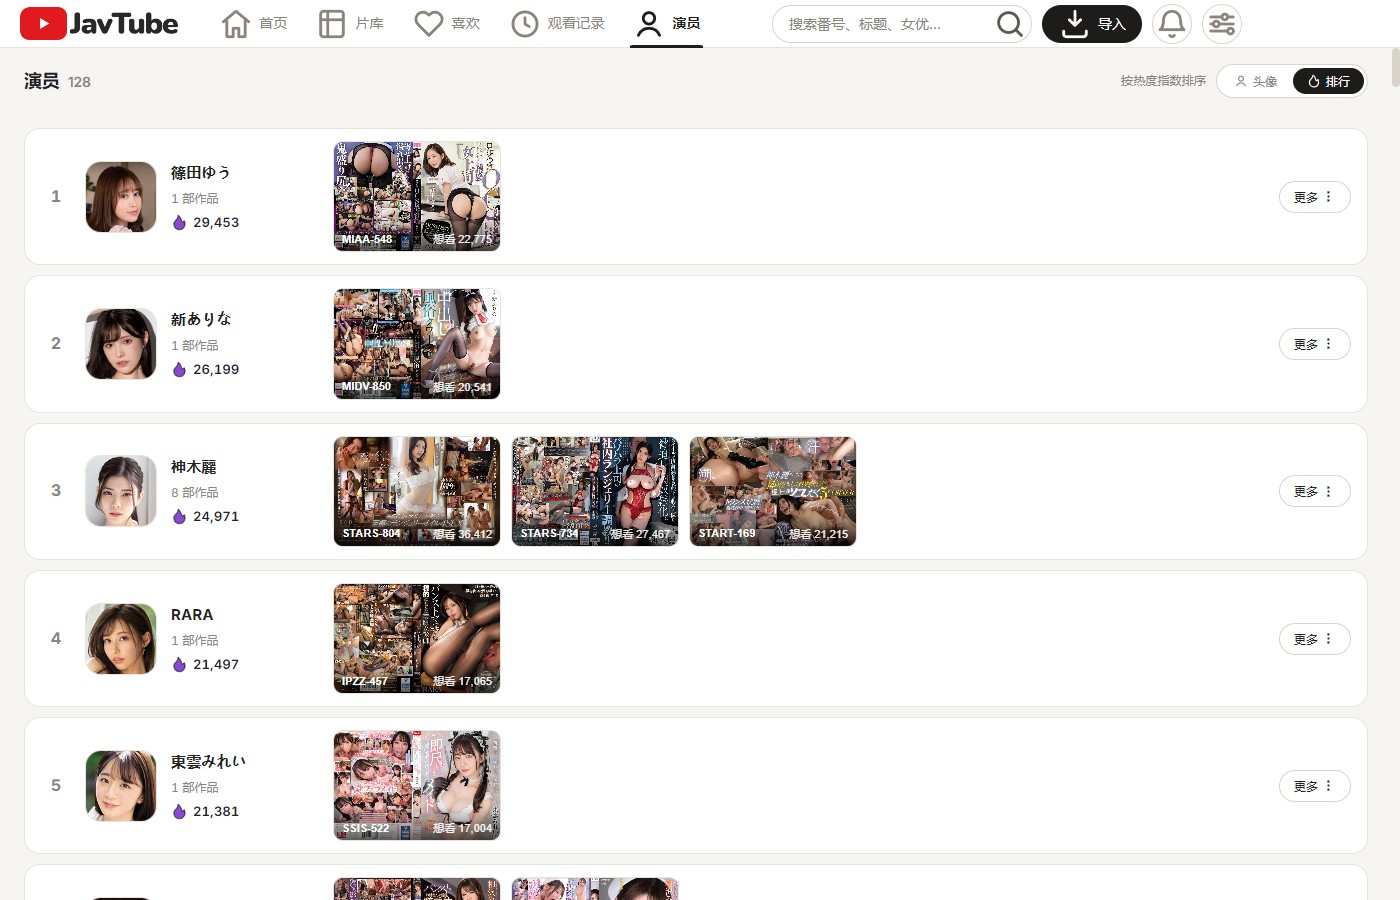
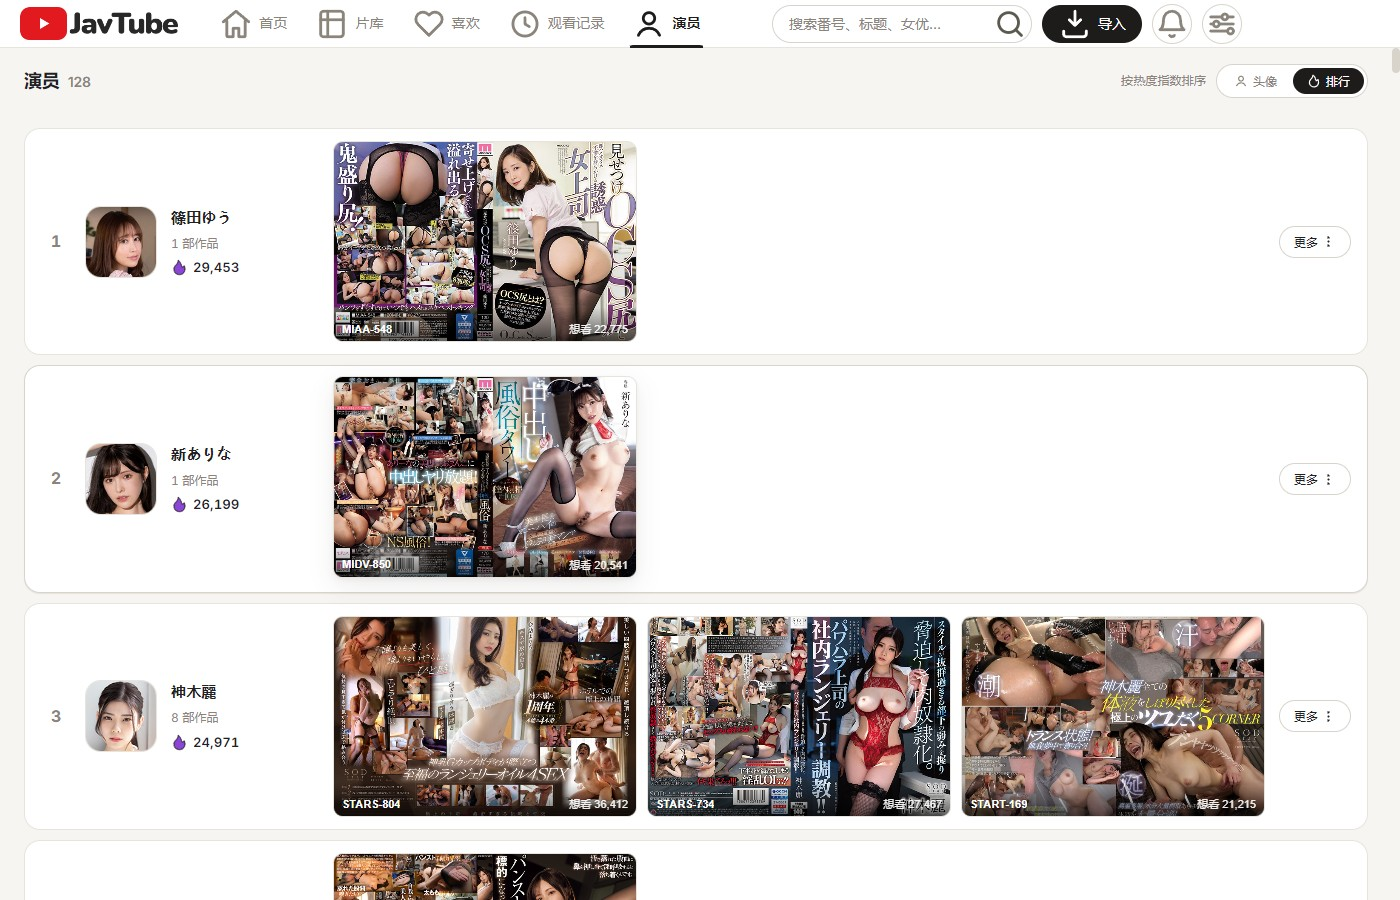
fix: 演员排行行海报改为三等分铺满，不再留空
- .r-movies 由 flex 改为 grid repeat(3,1fr)，去掉 168px 上限
- 不足 3 部的行其余格留空（库内影片数量所致），海报尺寸与其余行保持一致
- 同步更新 README 排行截图

diff --git a/src/views/Actresses.vue b/src/views/Actresses.vue
@@ -232,14 +232,15 @@ onMounted(load)
 .r-flame.t-blue { --icon-fill: #2f6fdb; }
 .r-flame.t-cyan { --icon-fill: #17b3c9; }
 
-/* 中间弹性区：想看最多的 3 部影片 */
+/* 中间弹性区：想看最多的 3 部影片，三等分正好铺满（不足 3 部时其余格留空） */
 .r-movies {
   flex: 1; min-width: 0;
-  display: flex; gap: 10px; align-items: center;
-  justify-content: flex-start;
+  display: grid;
+  grid-template-columns: repeat(3, minmax(0, 1fr));
+  gap: 10px;
 }
 .r-mv {
-  position: relative; flex: 1; max-width: 168px; min-width: 0;
+  position: relative; width: 100%; min-width: 0;
   aspect-ratio: 16 / 10.6;             /* JAV 封面横版比例 */
   border: 1px solid var(--border); border-radius: var(--r-sm);
   overflow: hidden; padding: 0; cursor: pointer; background: var(--surface-2);
@@ -277,9 +278,8 @@ onMounted(load)
 
 .empty { padding: 40px 0; text-align: center; color: var(--muted); font-size: var(--fs-base); }
 
-/* 窄窗口：影片格子收紧 */
+/* 窄窗口：信息列收紧（海报随行宽自适应缩放） */
 @media (max-width: 1200px) {
   .r-main { width: 118px; }
-  .r-mv { max-width: 140px; }
 }
 </style>
